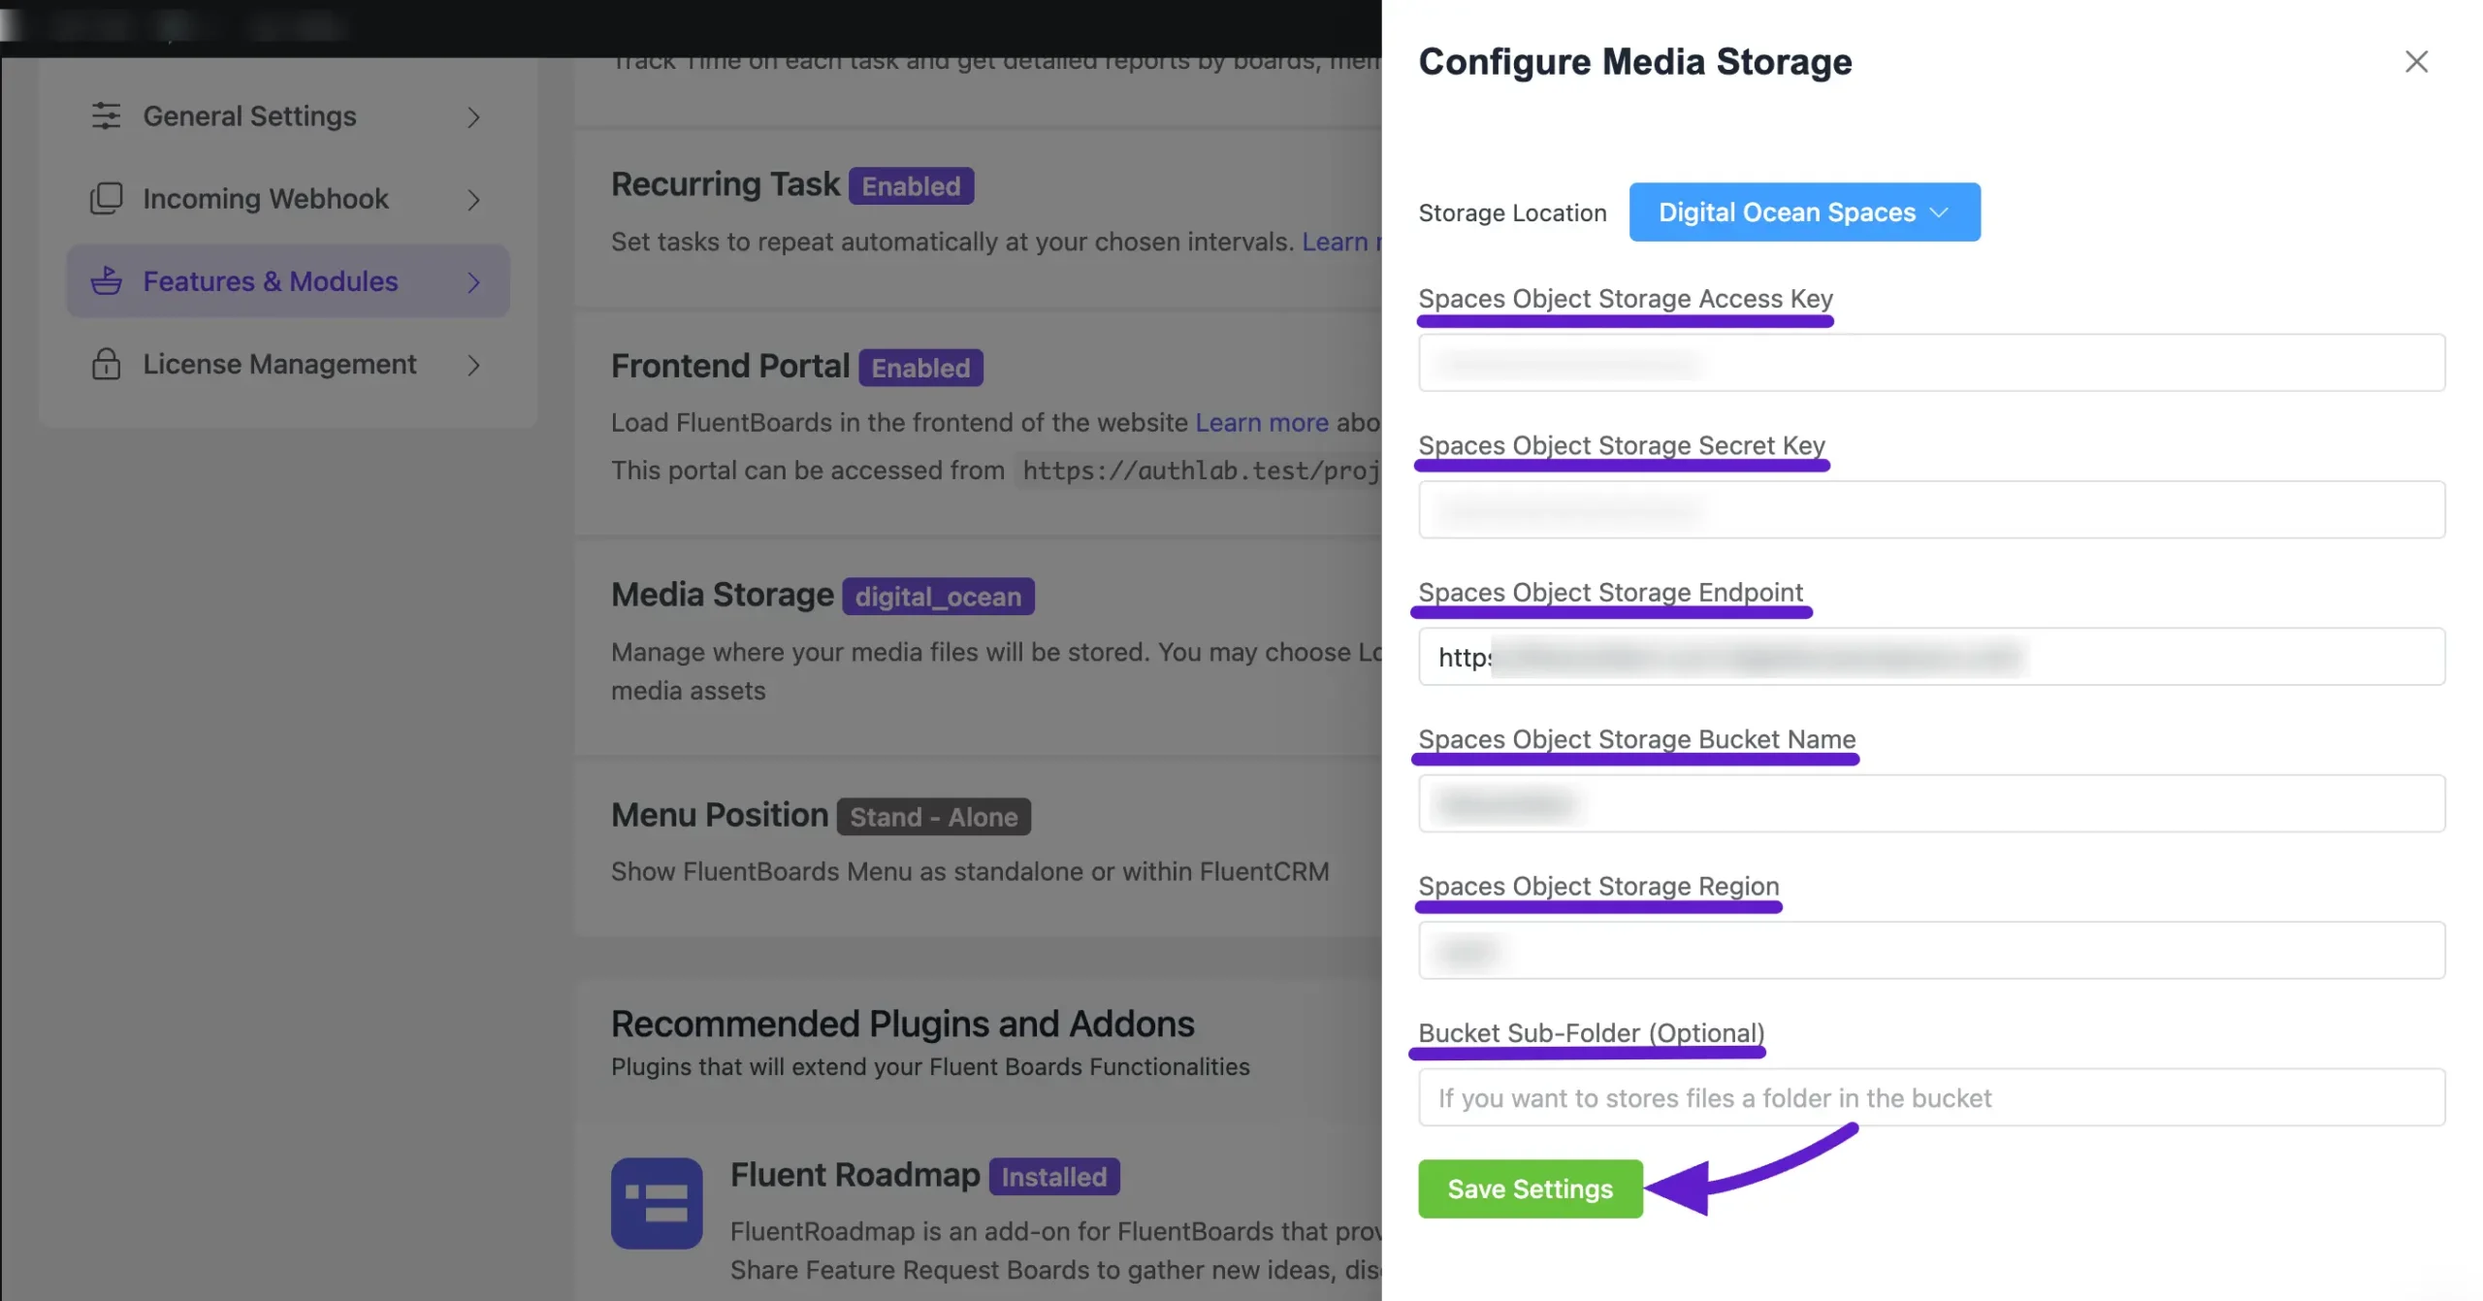
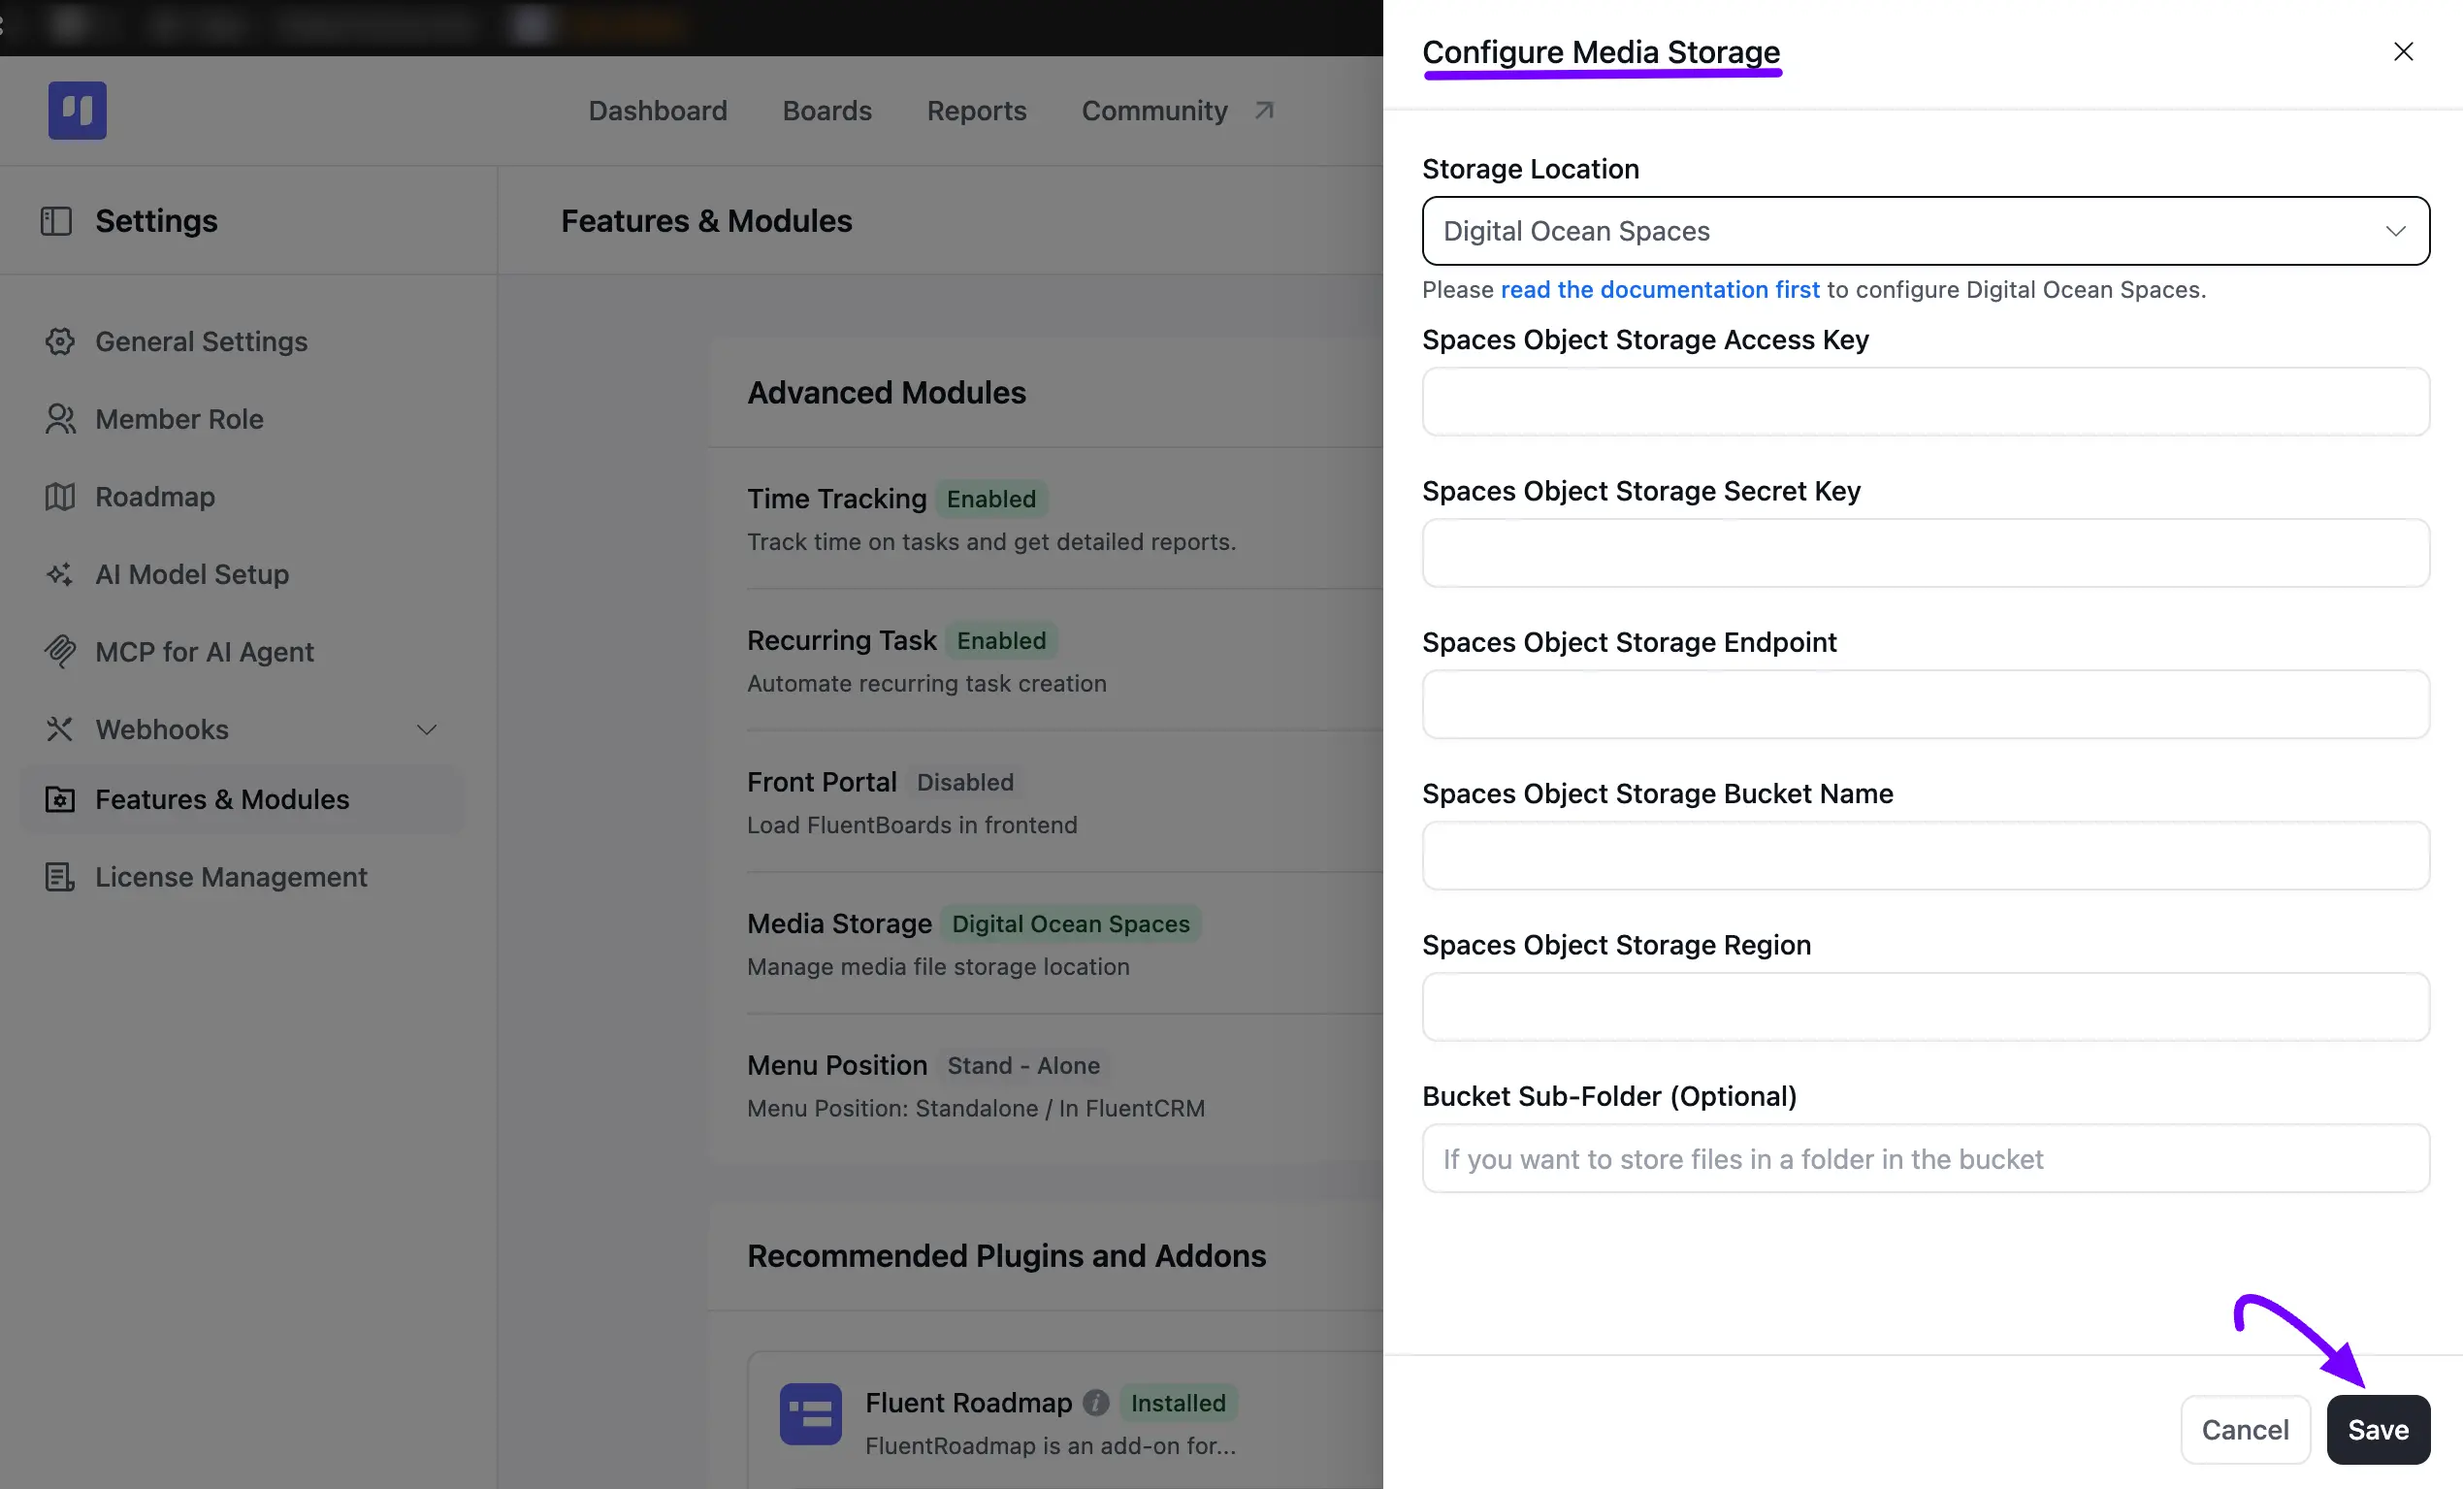
update fluentboards-integration-with-digital-ocean

diff --git a/docs/integrations/fluentboards-integration-with-digital-ocean.md b/docs/integrations/fluentboards-integration-with-digital-ocean.md
@@ -8,11 +8,11 @@ In this article, we will guide you through the step-by-step process of connectin
 
 ## DigitalOcean Settings
 
-To connect your **FluentBoards** with DigitalOcean, go to the **Settings** section of FluentBoards. Then, click on the **Features and Addons** tab from the left sidebar. Here, you’ll find the **Media Storage** option click on the **Settings** button next to it.
+To connect your **FluentBoards** with DigitalOcean, go to the **Settings** section of FluentBoards. Then, click on the **Features & Modules** tab from the left sidebar. Here, you’ll find the **Media Storage** option and click the **Manage** button next to it.
 
 ![media storage settings](../public/images/integrations/fluentboards-integration-with-digital-ocean/Media-Storage-settings-scaled.webp)
 
-A pop-up will appear. From here, select **Storage Location: DigitalOcean Space** from the dropdown menu. You’ll now need some credentials to connect with DigitalOcean.
+A **Configure Media Storage** pop-up will appear. From here, select **Digital Ocean Spaces** from the **Storage Location** dropdown menu. You’ll now need some credentials to connect with DigitalOcean.
 
 Let’s get started with collecting the required credentials.
 
@@ -54,10 +54,11 @@ Now your **Access Key ID** and **Secret Key** will be displayed. **Copy** them f
 
 ## Configure Digital Ocean in your FluentBoards
 
-Now paste the credentials into the dedicated fields of your **FluentBoards**. When you enter the **Endpoint**, you’ll notice that the **Storage Bucket Name** and **Region** are automatically filled in.
+Now paste the credentials you collected into the dedicated fields of the **Configure Media Storage** pop-up: **Spaces Object Storage Access Key**, **Spaces Object Storage Secret Key**, **Spaces Object Storage Endpoint**, **Spaces Object Storage Bucket Name**, and **Spaces Object Storage Region**.
 
-The **Bucket Subfolder** field is optional—you can add a subfolder if needed. Finally, click the **Save Settings** button to successfully add your DigitalOcean bucket as the cloud storage for your FluentBoards.
+The **Bucket Sub-Folder** field is optional — you can add a subfolder if needed. Finally, click the **Save** button to successfully add your DigitalOcean bucket as the cloud storage for your FluentBoards.
 
 ![digitalocean 7](../public/images/integrations/fluentboards-integration-with-digital-ocean/DigitalOcean-7-scaled.webp)
 
 If you have any further queries regarding this article, please feel free to [contact us](https://wpmanageninja.com/support-tickets/){:target="_blank"}.
+
